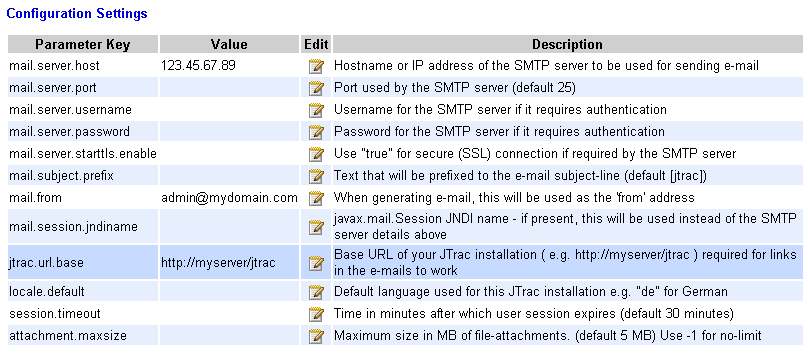
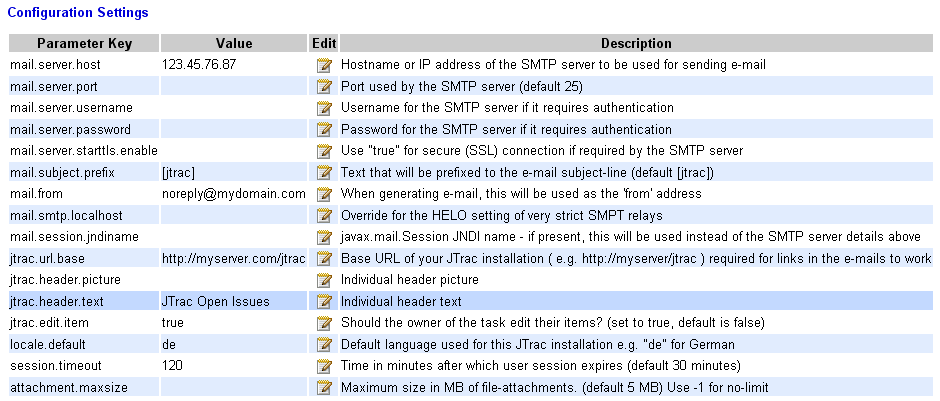
Fixing #2974643 (new option for mail.smtp.localhost) including the message files (default, English, German). Also updating the documentation with some releasenotes for 2.2.0 and the new setting screen.

diff --git a/jtrac/src/main/java/info/jtrac/mail/MailSender.java b/jtrac/src/main/java/info/jtrac/mail/MailSender.java
@@ -268,7 +268,8 @@ public class MailSender {
             logger.warn("'mail.server.host' config is null, mail sender not initialized");
             return;
         }        
-        String port = config.get("mail.server.port");               
+        String port = config.get("mail.server.port");       
+        String localhost = config.get("mail.smtp.localhost");
         from = config.get("mail.from");
         prefix = config.get("mail.subject.prefix");
         String userName = config.get("mail.server.username");
@@ -289,17 +290,30 @@ public class MailSender {
         sender = new JavaMailSenderImpl();
         sender.setHost(host);
         sender.setPort(p);
+        Properties props = null;
+
         if (userName != null) {
             // authentication requested
-            Properties props = new Properties();
+            props = new Properties();
             props.put("mail.smtp.auth", "true");
             if (startTls != null && startTls.toLowerCase().equals("true")) {
                 props.put("mail.smtp.starttls.enable", "true");
             }
-            sender.setJavaMailProperties(props);
             sender.setUsername(userName);
             sender.setPassword(password);
         }
+        
+        if (localhost != null) {
+        	if (props == null) {
+                props = new Properties();
+        	}
+        	props.put("mail.smtp.localhost", localhost);
+        }
+        
+        if (props != null) {
+            sender.setJavaMailProperties(props);
+        }
+        
         logger.info("email sender initialized from config: host = '" + host + "', port = '" + p + "'");        
     }
     

diff --git a/jtrac/src/main/java/info/jtrac/domain/Config.java b/jtrac/src/main/java/info/jtrac/domain/Config.java
@@ -42,6 +42,7 @@ public class Config implements Serializable {
         PARAMS.add("mail.server.starttls.enable");
         PARAMS.add("mail.subject.prefix");
         PARAMS.add("mail.from");
+        PARAMS.add("mail.smtp.localhost");
         PARAMS.add("mail.session.jndiname");
         PARAMS.add("jtrac.url.base");
         PARAMS.add("jtrac.header.picture");
